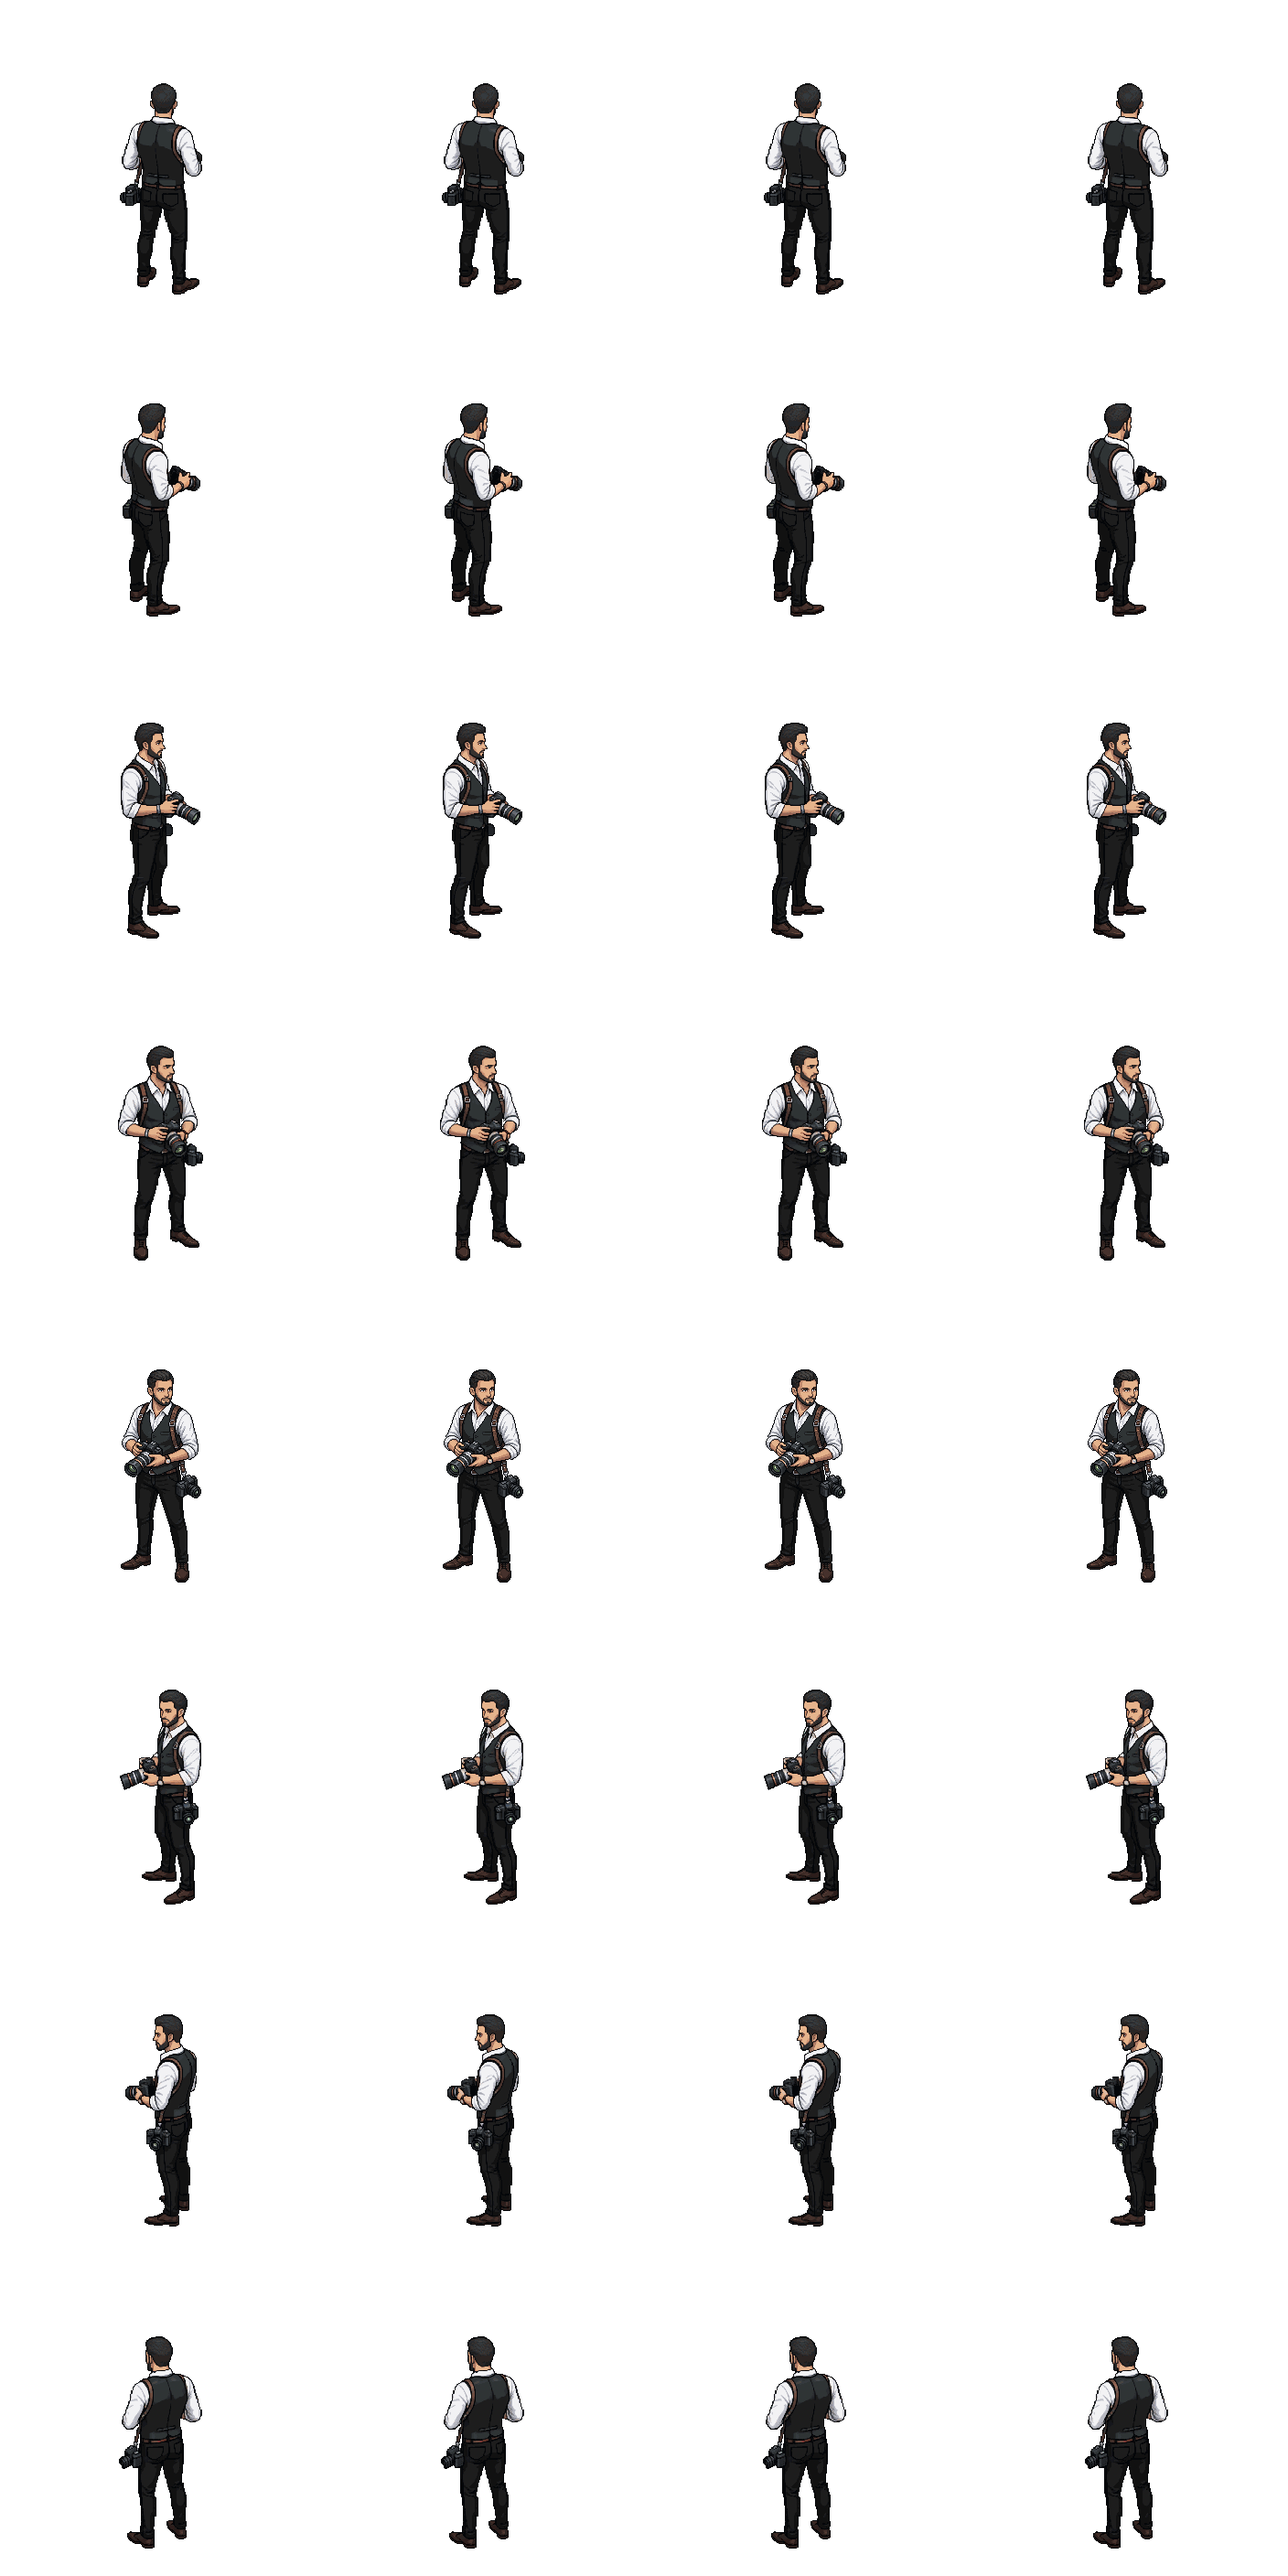
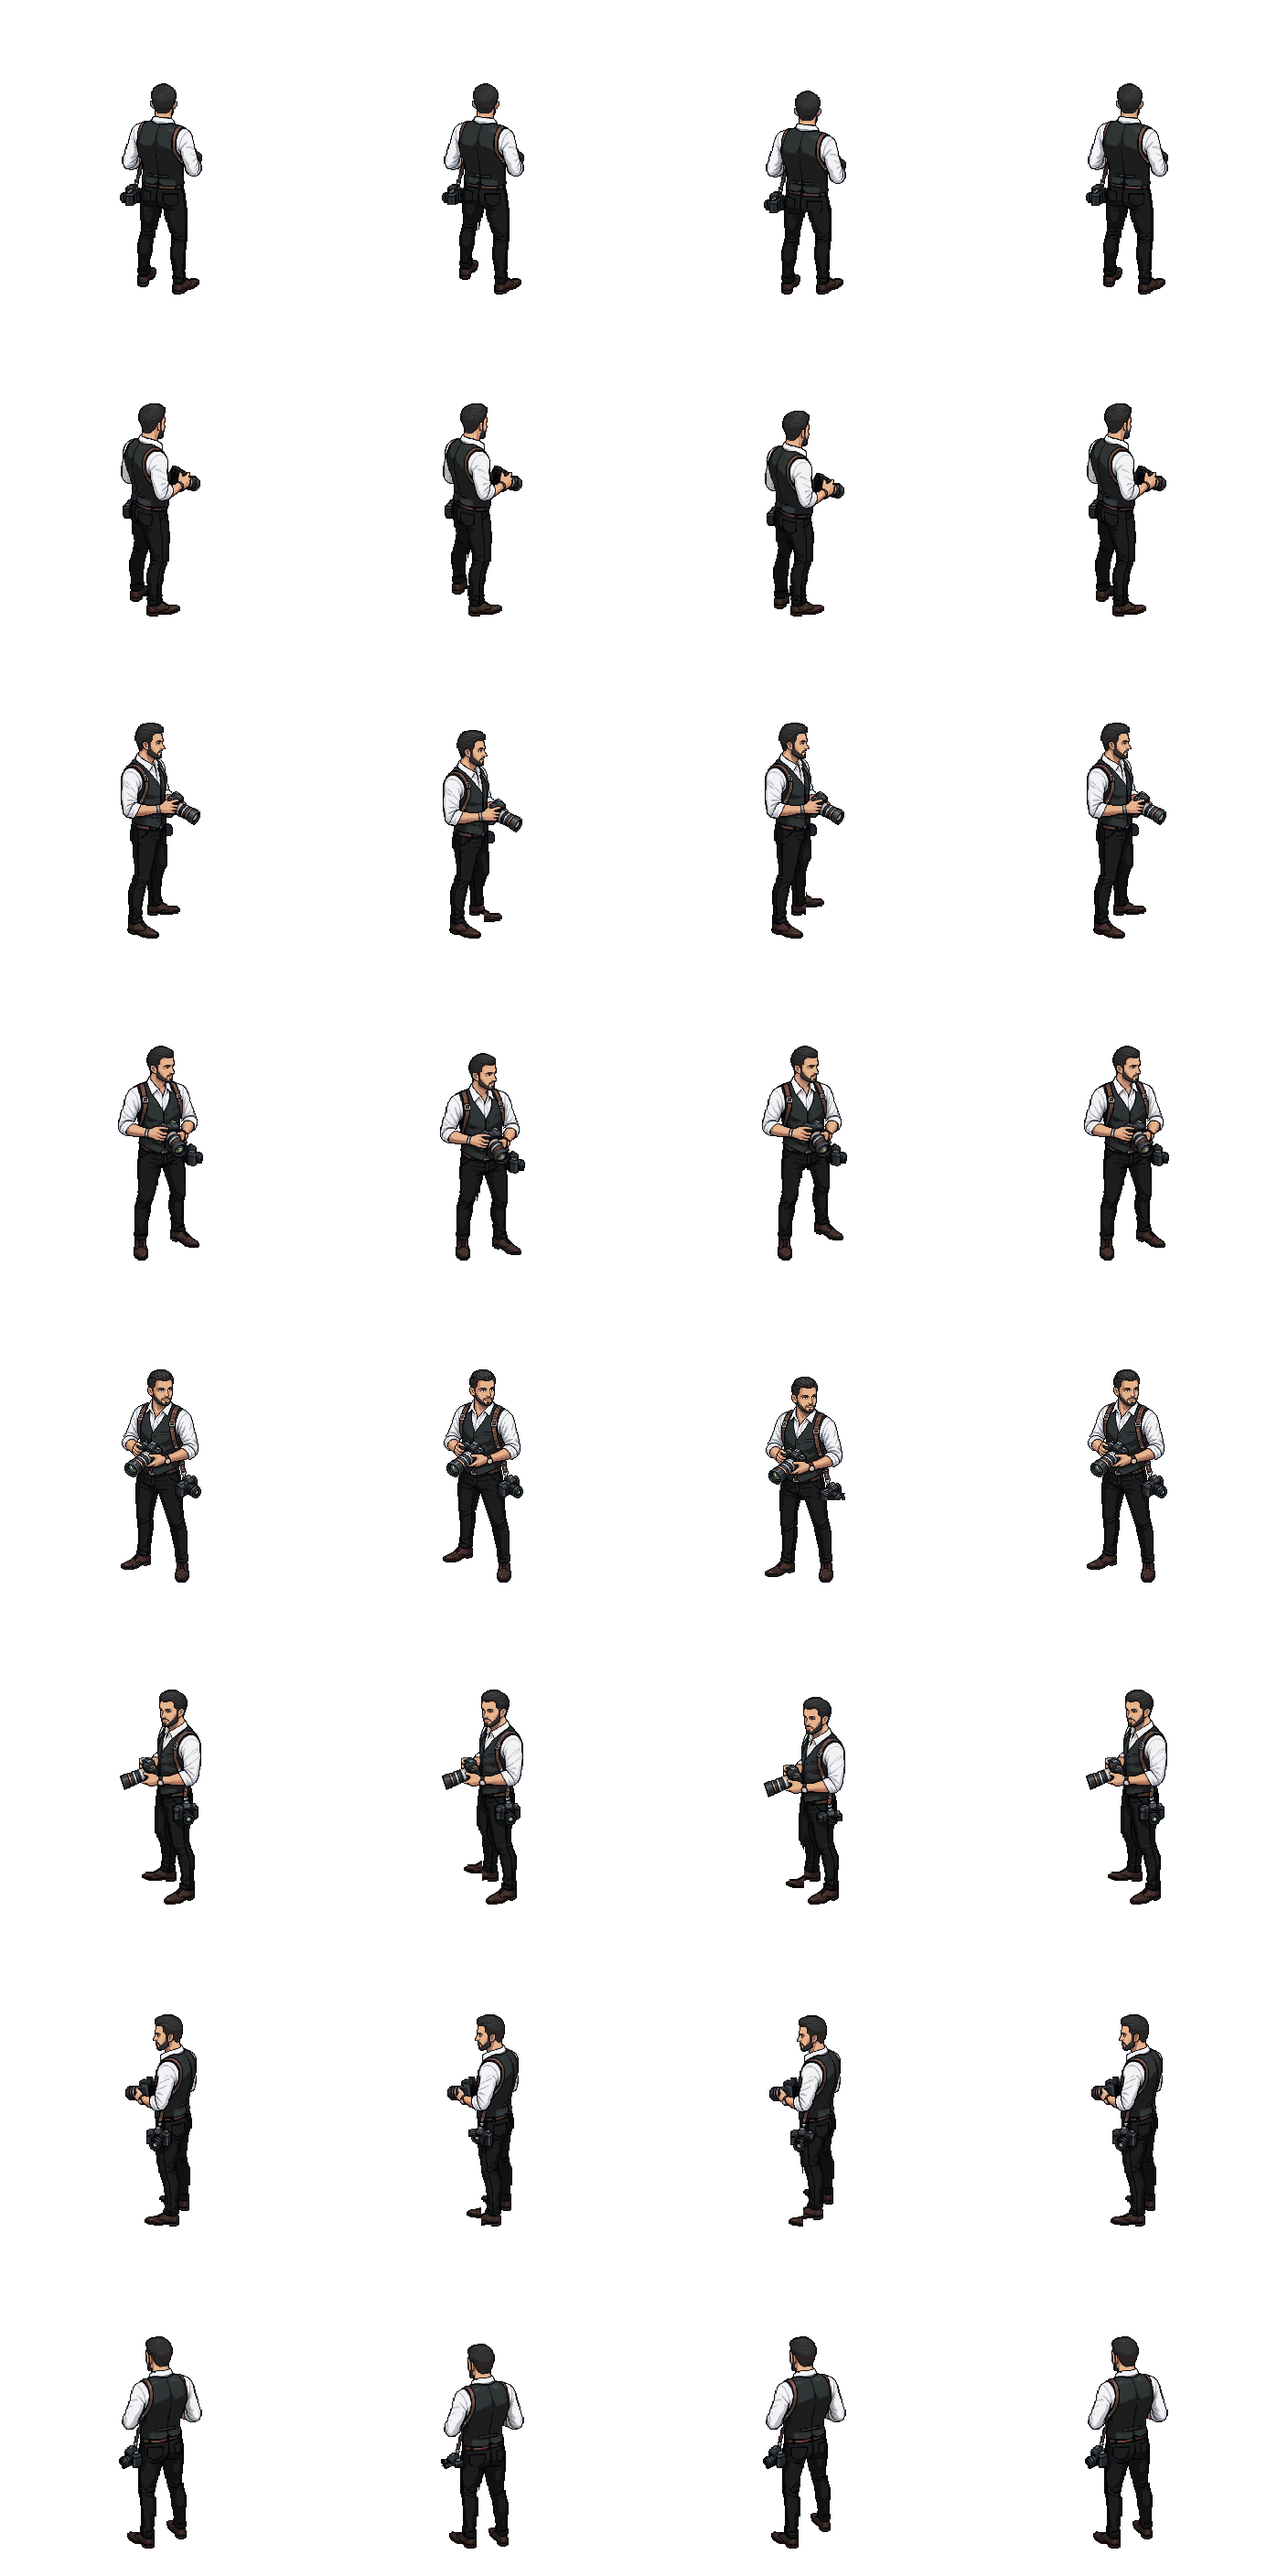
Photographer walk frames: alternating leg steps
walk_1 / walk_2 built from each direction's standing frame: legs split at the
gap between them, one foot lifted per step under an unchanged upper body
(tools/make_photographer_walk.py regenerates the sheet).

Claude-Session: https://claude.ai/code/session_01H5gqed7f1BS66dXt4j4dG4

diff --git a/tools/make_photographer_walk.py b/tools/make_photographer_walk.py
@@ -1,0 +1,56 @@
+import sys
+from PIL import Image
+import numpy as np
+src=Image.open(sys.argv[1]).convert('RGBA')
+order={'N':4,'NE':3,'E':2,'SE':1,'S':0,'SW':7,'W':6,'NW':5}
+
+def sprite(k):
+    cell=src.crop(((k%3)*256,(k//3)*256,(k%3)*256+256,(k//3)*256+256))
+    return cell.crop(cell.getbbox())
+
+def walk_frames(spr):
+    a=np.array(spr); h,w=a.shape[:2]; al=a[:,:,3]>16
+    waist=int(h*0.58)
+    legs=a[waist:].copy(); body=a.copy(); body[waist:]=0
+    lal=legs[:,:,3]>16
+    xs=np.where(lal.any(0))[0]
+    # split the two legs at the emptiest column in the middle third of the leg span
+    lo,hi=xs[0]+(xs[-1]-xs[0])//3, xs[0]+2*(xs[-1]-xs[0])//3
+    counts=lal[int(lal.shape[0]*0.35):].sum(0)
+    mid=lo+int(np.argmin(counts[lo:hi+1]))
+    out=[]
+    LIFT=8
+    for lift_left in (True,False):
+        f=np.zeros((h,w,4),np.uint8)
+        L=legs.copy(); R=legs.copy(); L[:,mid:]=0; R[:,:mid]=0
+        up,down=(L,R) if lift_left else (R,L)
+        lh=legs.shape[0]
+        # planted leg stays in place
+        seg=f[waist:waist+lh]
+        f[waist:waist+lh]=np.where(down[:,:,3:4]>16,down,seg)
+        # lifted leg rises (its top slides under the body)
+        seg=f[waist-LIFT:waist-LIFT+lh]
+        f[waist-LIFT:waist-LIFT+lh]=np.where(up[:,:,3:4]>16,up,seg)
+        # body on top, unchanged (the game adds the walk bob)
+        f[:]=np.where(body[:,:,3:4]>16,body,f)
+        out.append(Image.fromarray(f))
+    return out
+
+C=352
+rows=['N','NE','E','SE','S','SW','W','NW']
+sheet=Image.new('RGBA',(C*4,C*8),(0,0,0,0))
+for r,d in enumerate(rows):
+    spr=sprite(order[d]); A,B=walk_frames(spr)
+    for c,img in enumerate([spr,A,B,spr]):
+        bb=img.getbbox(); img=img.crop(bb)
+        x=c*C+(C-img.width)//2; y=r*C+C-30-img.height
+        sheet.paste(img,(x,y),img)
+sheet.save(sys.argv[2])
+# preview: rows S,E,N,SE with idle,A,B
+prev=Image.new('RGBA',(3*200,4*260),(60,60,80,255))
+for i,d in enumerate(['S','SE','E','N']):
+    r=rows.index(d)
+    for c in range(3):
+        cell=sheet.crop((c*C,r*C,c*C+C,r*C+C)).resize((200,200),Image.LANCZOS)
+        prev.paste(cell,(c*200,i*260),cell)
+prev.resize((900,1560),Image.NEAREST).save(sys.argv[3])
